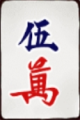
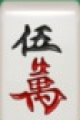
fix(vision): fix 5m template ink color, preserve physical left-to-right hand order, and make draw/discard instant

diff --git a/android/app/src/main/python/engine/engine.py b/android/app/src/main/python/engine/engine.py
@@ -516,21 +516,20 @@ class _HandStabilizer:
     """
 
     def __init__(self) -> None:
-        # 当前稳定手牌（排序归一化的 mpsz）
+        # 当前稳定手牌（保留手牌在屏幕上从左到右的真实物理顺序）
         self.stable_mpsz: str = ""
+        self._stable_key: str = ""
         # 连续多少帧给出了同一个牌型
         self._streak: int = 0
         self._last_key: str = ""
         # 最近若干帧的合法牌型（供众数兜底）
         self._recent: deque = deque(maxlen=HAND_MODE_WINDOW)
-        # 本帧是否看到了一个"尚未被采纳"的新牌型。引擎据此**强制**下一帧
-        # 跑完整识别（否则帧差去重会把后续帧全跳掉，永远攒不到第二票，
-        # 手牌就再也不更新了 —— 实测中这是"识别不出来"的根因之一）。
         self.pending: bool = False
 
     def reset(self) -> None:
         """玩法切换 / 朝向变化时硬重置：旧手牌与新场景无关。"""
         self.stable_mpsz = ""
+        self._stable_key = ""
         self._streak = 0
         self._last_key = ""
         self._recent.clear()
@@ -538,8 +537,9 @@ class _HandStabilizer:
         self._empty_streak = 0
 
     def observe(self, labels, valid_sizes, avail=None) -> str:
-        """喂入本帧手牌行的标签列表，返回应当对外输出的稳定 mpsz。"""
+        """喂入本帧手牌行的标签列表，返回应当对外输出的从左到右稳定 mpsz。"""
         cnt: Counter = Counter()
+        ordered_list = []
         for lab in labels:
             if not lab:
                 continue
@@ -550,13 +550,17 @@ class _HandStabilizer:
                 except Exception:
                     continue
             cnt[lab] += 1
+            ordered_list.append(lab)
 
         n = sum(cnt.values())
+        ordered_mpsz = "".join(ordered_list)
+
         if n < 5:
             self._empty_streak = getattr(self, "_empty_streak", 0) + 1
             if self._empty_streak >= 8:
                 # 连续 8 帧手牌区无有效手牌（对局结束/未开局/大厅）：彻底重置稳定手牌，绝不跨局残留
                 self.stable_mpsz = ""
+                self._stable_key = ""
                 self._streak = 0
                 self._last_key = ""
                 self.pending = False
@@ -591,7 +595,7 @@ class _HandStabilizer:
             self._last_key = key
 
         # 已经是稳定值 → 无待确认变化，下一帧可以正常按帧差跳过
-        if key == self.stable_mpsz:
+        if key == getattr(self, "_stable_key", ""):
             self.pending = False
             return self.stable_mpsz
 
@@ -603,22 +607,24 @@ class _HandStabilizer:
                 return ""
             # 若识别到合法手牌张数（如 13 或 14 张满手），首帧立即可采信并进入稳定态，杜绝首帧延迟与"等待"提示卡顿
             if n in (13, 14) or self._streak >= 2:
-                self.stable_mpsz = key
+                self.stable_mpsz = ordered_mpsz
+                self._stable_key = key
                 self.pending = False
                 return self.stable_mpsz
             else:
                 self.pending = True
                 return ""
 
-        # 众数兜底：窗口内出现次数够多，说明识别器已经稳定在（可能不完美的）
-        # 这个牌型上，再等下去也不会更好，直接采纳。
+        # 众数兜底：窗口内出现次数够多，说明识别器已经稳定在该牌型上，直接采纳。
         mode_hits = sum(1 for k in self._recent if k == key)
-        if self._streak >= need or mode_hits >= HAND_MODE_VOTES:
-            self.stable_mpsz = key
+        # 摸牌(13->14) 或 打牌(14->13)：单张手牌合法物理变动，即时响应刷新，杜绝出牌/摸牌后的迟钝与卡顿
+        is_move = abs(n - (len(self.stable_mpsz) // 2)) == 1 and n in (13, 14)
+        if is_move or self._streak >= need or mode_hits >= HAND_MODE_VOTES:
+            self.stable_mpsz = ordered_mpsz
+            self._stable_key = key
             self.pending = False
         else:
-            # 看到了新牌型但证据还不够 —— 通知引擎下一帧必须真跑一次，
-            # 别被帧差去重跳掉。
+            # 看到了新牌型但证据还不够 —— 通知引擎下一帧必须真跑一次，别被跳过
             self.pending = True
         return self.stable_mpsz
 
@@ -639,6 +645,7 @@ def _reconcile_hand_tiles(row, stable_mpsz: str):
     """
     if not stable_mpsz or not row:
         return row
+    row = sorted(row, key=lambda d: d[0][0])
     cnt_row = Counter(d[1] for d in row if d[1] is not None)
     cnt_stable = _mpsz_to_counter(stable_mpsz)
     if cnt_row == cnt_stable:
@@ -649,7 +656,7 @@ def _reconcile_hand_tiles(row, stable_mpsz: str):
     labels = [stable_mpsz[i:i + 2] for i in range(0, len(stable_mpsz), 2)]
     out = []
     for i, (rect, lab, conf) in enumerate(row):
-        out.append((rect, labels[i] if i < len(labels) else None, conf))
+        out.append((rect, labels[i] if i < len(labels) else lab, conf))
     return out
 
 
@@ -2020,6 +2027,7 @@ class Engine:
             # 这是"界面永远有内容、且不会闪"的根本保证。
             raw_labels: List[str] = []
             if hand_row is not None:
+                hand_row = sorted(hand_row, key=lambda d: d[0][0])
                 raw_labels = [d[1] for d in hand_row if d[1] is not None]
 
             # 新洗牌发牌 / 换三张判定：若当前帧原始手牌张数完整（>=13张），且与旧稳定手牌重合度很低（<= 5 张相同），
